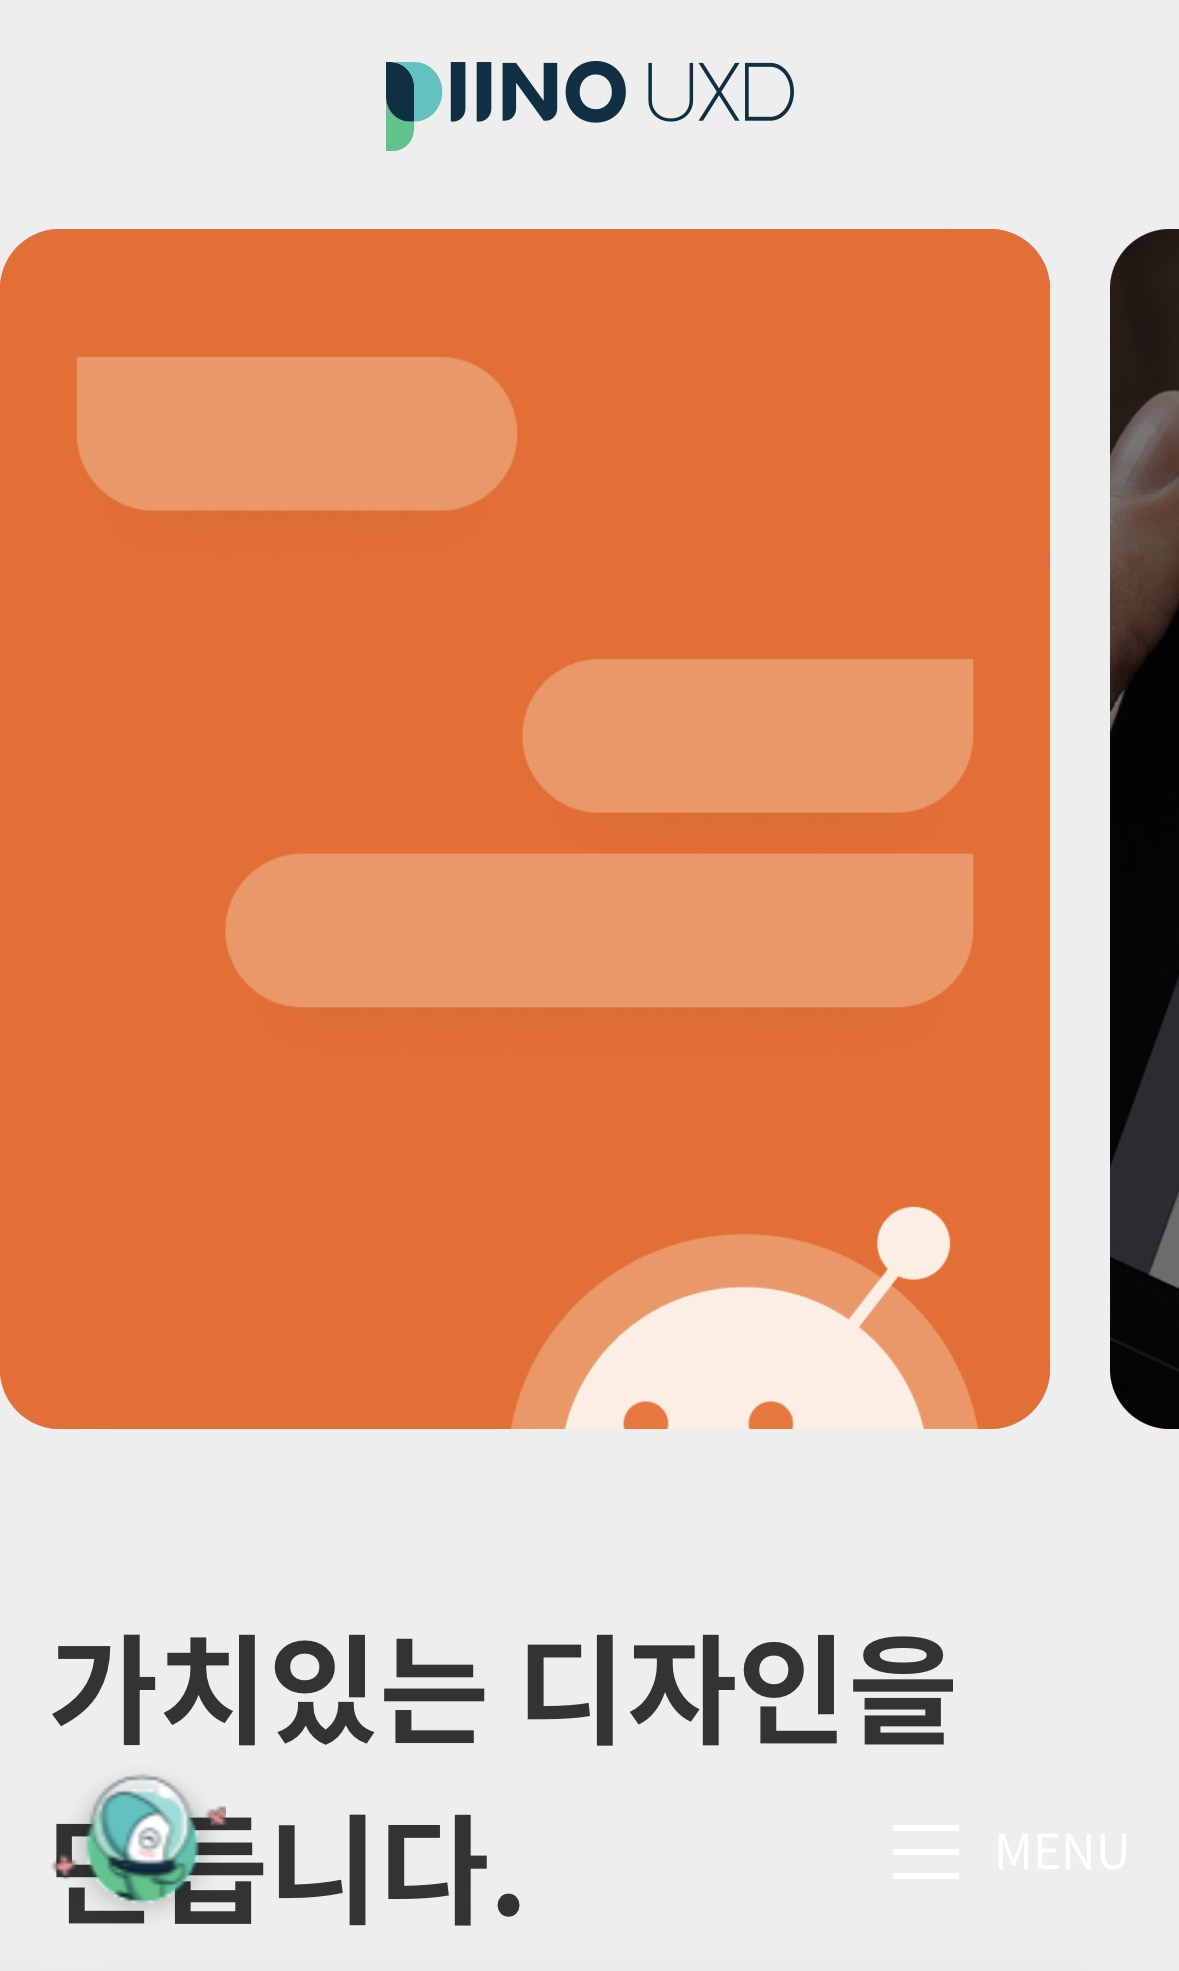
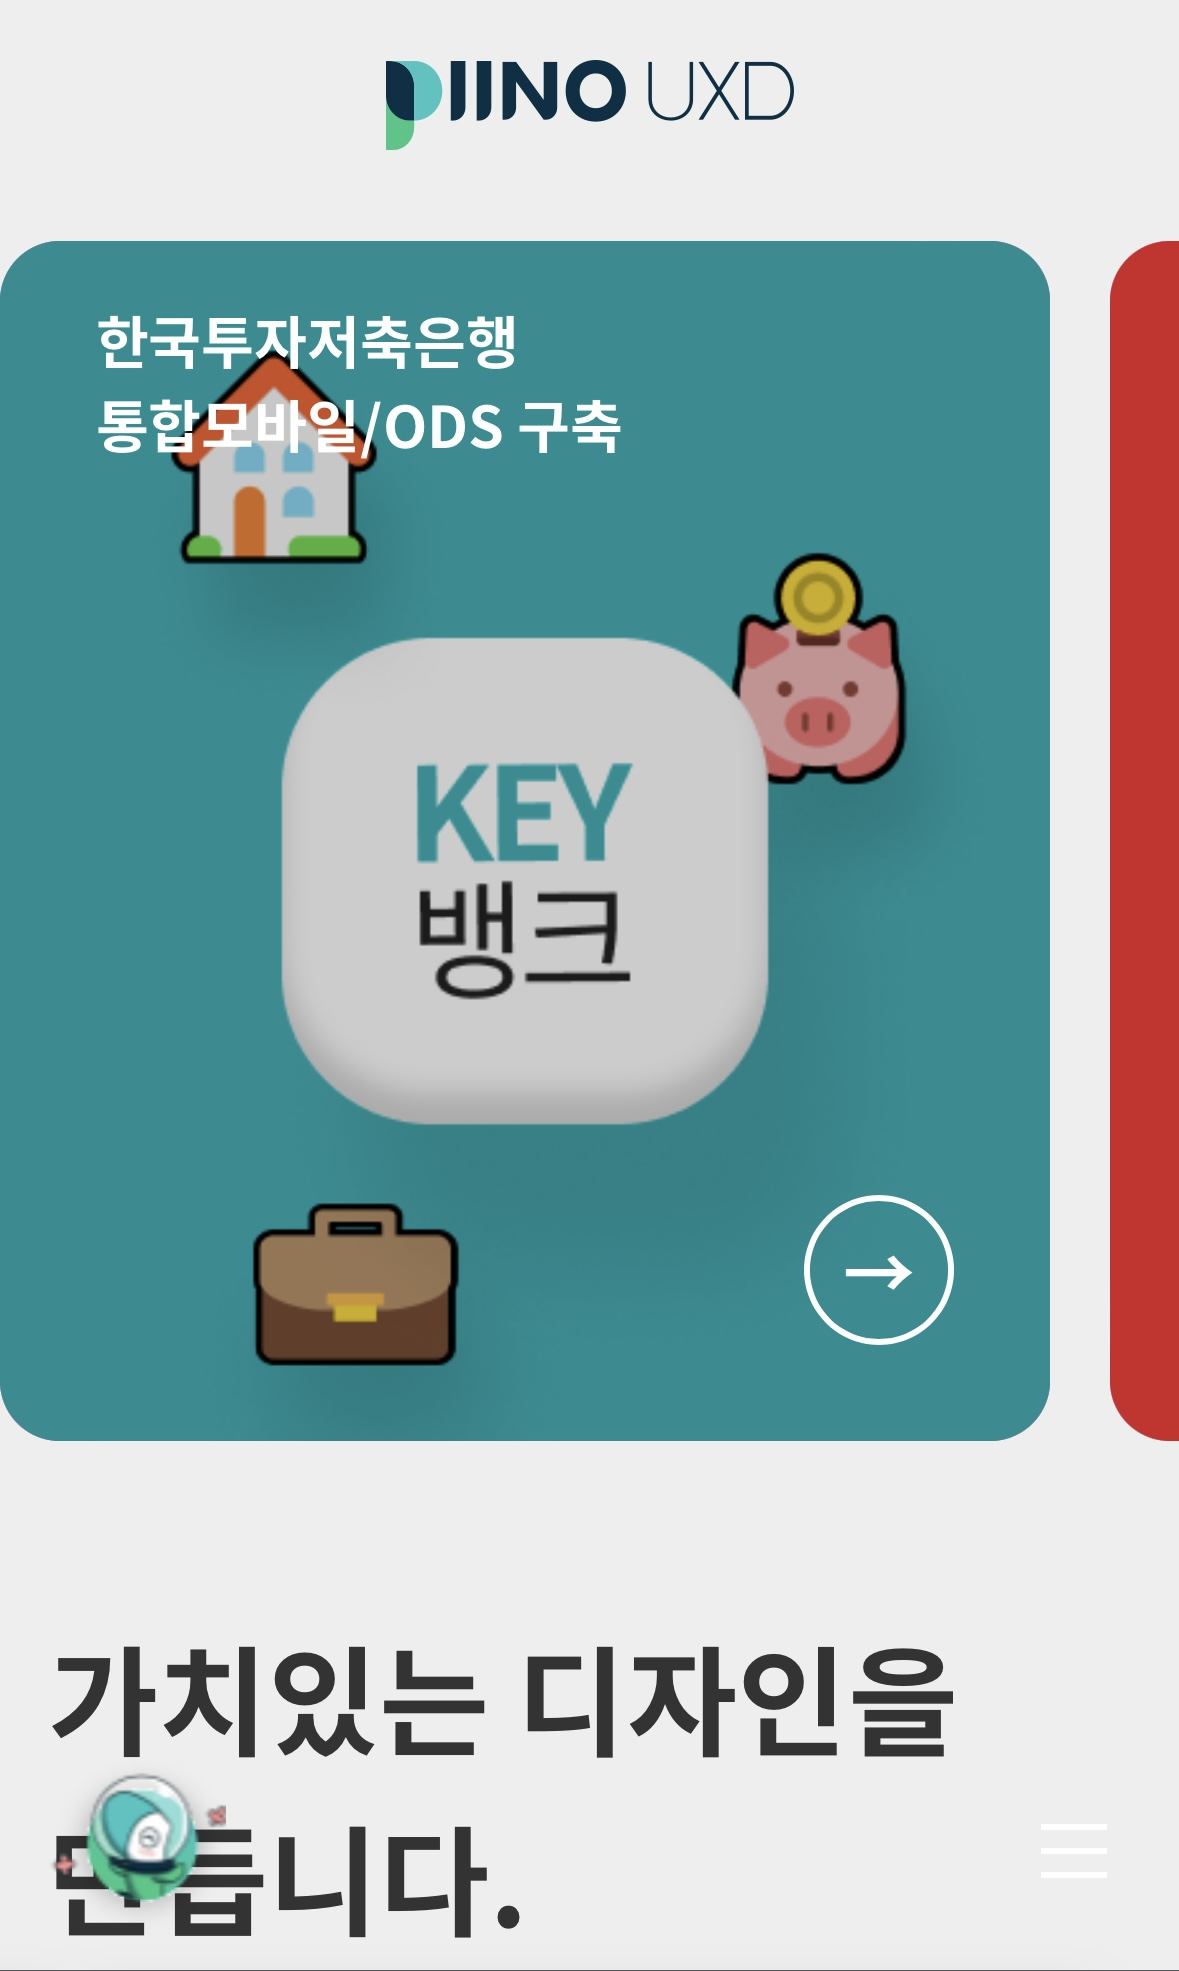
wip: 목업작업중

diff --git a/scss/project.scss b/scss/project.scss
@@ -3,10 +3,11 @@
   .intro {
     article {
       position: relative;
-      width: 100%;
+      //width: 100%;
+      //height: 1000px;
       height: 100vh;
       //background: url("../images/img.jpg") no-repeat center;
-      background-size: cover;
+      //background-size: cover;
 
       .title {
         position: absolute;
@@ -32,31 +33,36 @@
 
     &.sb {
       article {
-        background: url("../images/mockup2.webp") no-repeat center;
+        background: url("../images/mockup_sb.png") no-repeat center;
+        background-size: cover;
       }
     }
 
     &.piino {
       article {
-        background: url("../images/mockup3.webp") no-repeat center;
+        background: url("../images/mockup_pn.png") no-repeat center;
+        background-size: cover;
       }
     }
 
     &.cookshare {
       article {
-        background: url("../images/mockup4.jpg") no-repeat center;
+        background: url("../images/mockup_cs.png") no-repeat center;
+        background-size: cover;
       }
     }
 
     &.farm {
       article {
-        background: url("../images/mockup5.webp") no-repeat center;
+        background: url("../images/mockup_wf.png") no-repeat center;
+        background-size: cover;
       }
     }
 
     &.keybank {
       article {
-        background: url("../images/mockup6.webp") no-repeat center;
+        background: url("../images/mockup_kb.png") no-repeat center;
+        background-size: cover;
       }
     }
   }
@@ -325,6 +331,7 @@
                 border-radius: 45px;
                 border: 10px solid #222;
                 overflow: hidden;
+                padding: 10px;
 
                 .image {
                   position: absolute;
@@ -384,6 +391,7 @@
                 border-radius: 45px;
                 border: 10px solid #222;
                 overflow: hidden;
+                padding: 10px;
 
                 .image {
                   position: absolute;
@@ -652,7 +660,7 @@
   }
 }
 
-  @media screen and (max-width: 950px) {
+  @media (min-width: 751px) and (max-width: 950px) {
     .project-main{
       .overview {
         article {
@@ -670,12 +678,33 @@
           }
         }
       }
+      .showing02{
+        article{
+          .content{
+            .images{
+              ul{
+                li{
+                  .image-box{
+                    border: 4px solid #222;
+                  }
+                }
+              }
+            }
+          }
+        }
+      }
       .showing03{
         article{
           .content{
             .images{
               ul{
                 gap: 2rem;
+
+                li{
+                  .image-box{
+                    border: 4px solid #222;
+                  }
+                }
               }
             }
           }
@@ -705,7 +734,7 @@
     }
   }
 
-  @media screen and (max-width: 650px) {
+  @media screen and (max-width: 750px) {
     header {
       h1 {
         font-size: 1.5rem;
@@ -807,6 +836,12 @@
 
               ul {
                 display: initial;
+
+                li{
+                  .image-box{
+                    border: 7px solid #222;
+                  }
+                }
               }
             }
 
@@ -848,6 +883,12 @@
                 display: flex;
                 flex-direction: column;
                 gap: 5rem;
+
+                li{
+                  .image-box{
+                    border: 7px solid #222;
+                  }
+                }
               }
             }
           }

diff --git a/css/style.css b/css/style.css
@@ -128,9 +128,7 @@ button {
 }
 .project-main .intro article {
   position: relative;
-  width: 100%;
   height: 100vh;
-  background-size: cover;
 }
 .project-main .intro article .title {
   position: absolute;
@@ -149,19 +147,24 @@ button {
   background-size: cover;
 }
 .project-main .intro.sb article {
-  background: url("../images/mockup2.webp") no-repeat center;
+  background: url("../images/mockup_sb.png") no-repeat center;
+  background-size: cover;
 }
 .project-main .intro.piino article {
-  background: url("../images/mockup3.webp") no-repeat center;
+  background: url("../images/mockup_pn.png") no-repeat center;
+  background-size: cover;
 }
 .project-main .intro.cookshare article {
-  background: url("../images/mockup4.jpg") no-repeat center;
+  background: url("../images/mockup_cs.png") no-repeat center;
+  background-size: cover;
 }
 .project-main .intro.farm article {
-  background: url("../images/mockup5.webp") no-repeat center;
+  background: url("../images/mockup_wf.png") no-repeat center;
+  background-size: cover;
 }
 .project-main .intro.keybank article {
-  background: url("../images/mockup6.webp") no-repeat center;
+  background: url("../images/mockup_kb.png") no-repeat center;
+  background-size: cover;
 }
 .project-main .overview {
   padding: 1em 2rem 5em 2rem;
@@ -392,6 +395,7 @@ button {
   border-radius: 45px;
   border: 10px solid #222;
   overflow: hidden;
+  padding: 10px;
 }
 .project-main .showing02 article .content .images ul li .image-box .image {
   position: absolute;
@@ -436,6 +440,7 @@ button {
   border-radius: 45px;
   border: 10px solid #222;
   overflow: hidden;
+  padding: 10px;
 }
 .project-main .showing03 article .content .images ul li .image-box .image {
   position: absolute;
@@ -625,7 +630,7 @@ button {
   font-size: 1.25rem;
 }
 
-@media screen and (max-width: 950px) {
+@media (min-width: 751px) and (max-width: 950px) {
   .project-main .overview article .title h3 {
     font-size: 5vw;
   }
@@ -636,8 +641,14 @@ button {
   .project-main .overview article .content .intention {
     width: 50vw;
   }
+  .project-main .showing02 article .content .images ul li .image-box {
+    border: 4px solid #222;
+  }
   .project-main .showing03 article .content .images ul {
     gap: 2rem;
+  }
+  .project-main .showing03 article .content .images ul li .image-box {
+    border: 4px solid #222;
   }
   .project-main .showing04 article .content.desktop .images ul li .image-box {
     aspect-ratio: 1280/900;
@@ -647,7 +658,7 @@ button {
     top: auto;
   }
 }
-@media screen and (max-width: 650px) {
+@media screen and (max-width: 750px) {
   header h1 {
     font-size: 1.5rem;
     white-space: nowrap;
@@ -713,6 +724,9 @@ button {
   .project-main .showing02 article .content .images ul {
     display: initial;
   }
+  .project-main .showing02 article .content .images ul li .image-box {
+    border: 7px solid #222;
+  }
   .project-main .showing02 article .content.desktop .images ul {
     align-items: center;
   }
@@ -734,6 +748,9 @@ button {
     display: flex;
     flex-direction: column;
     gap: 5rem;
+  }
+  .project-main .showing03 article .content .images ul li .image-box {
+    border: 7px solid #222;
   }
   .project-main .showing04 article {
     padding: 3em 0 5em;

diff --git a/scss/style.scss b/scss/style.scss
@@ -169,7 +169,6 @@ ul, ol, li {
                         border-radius: 50%;
                         transition: all 0.2s ease;
                       }
-
                     }
                   }
 
